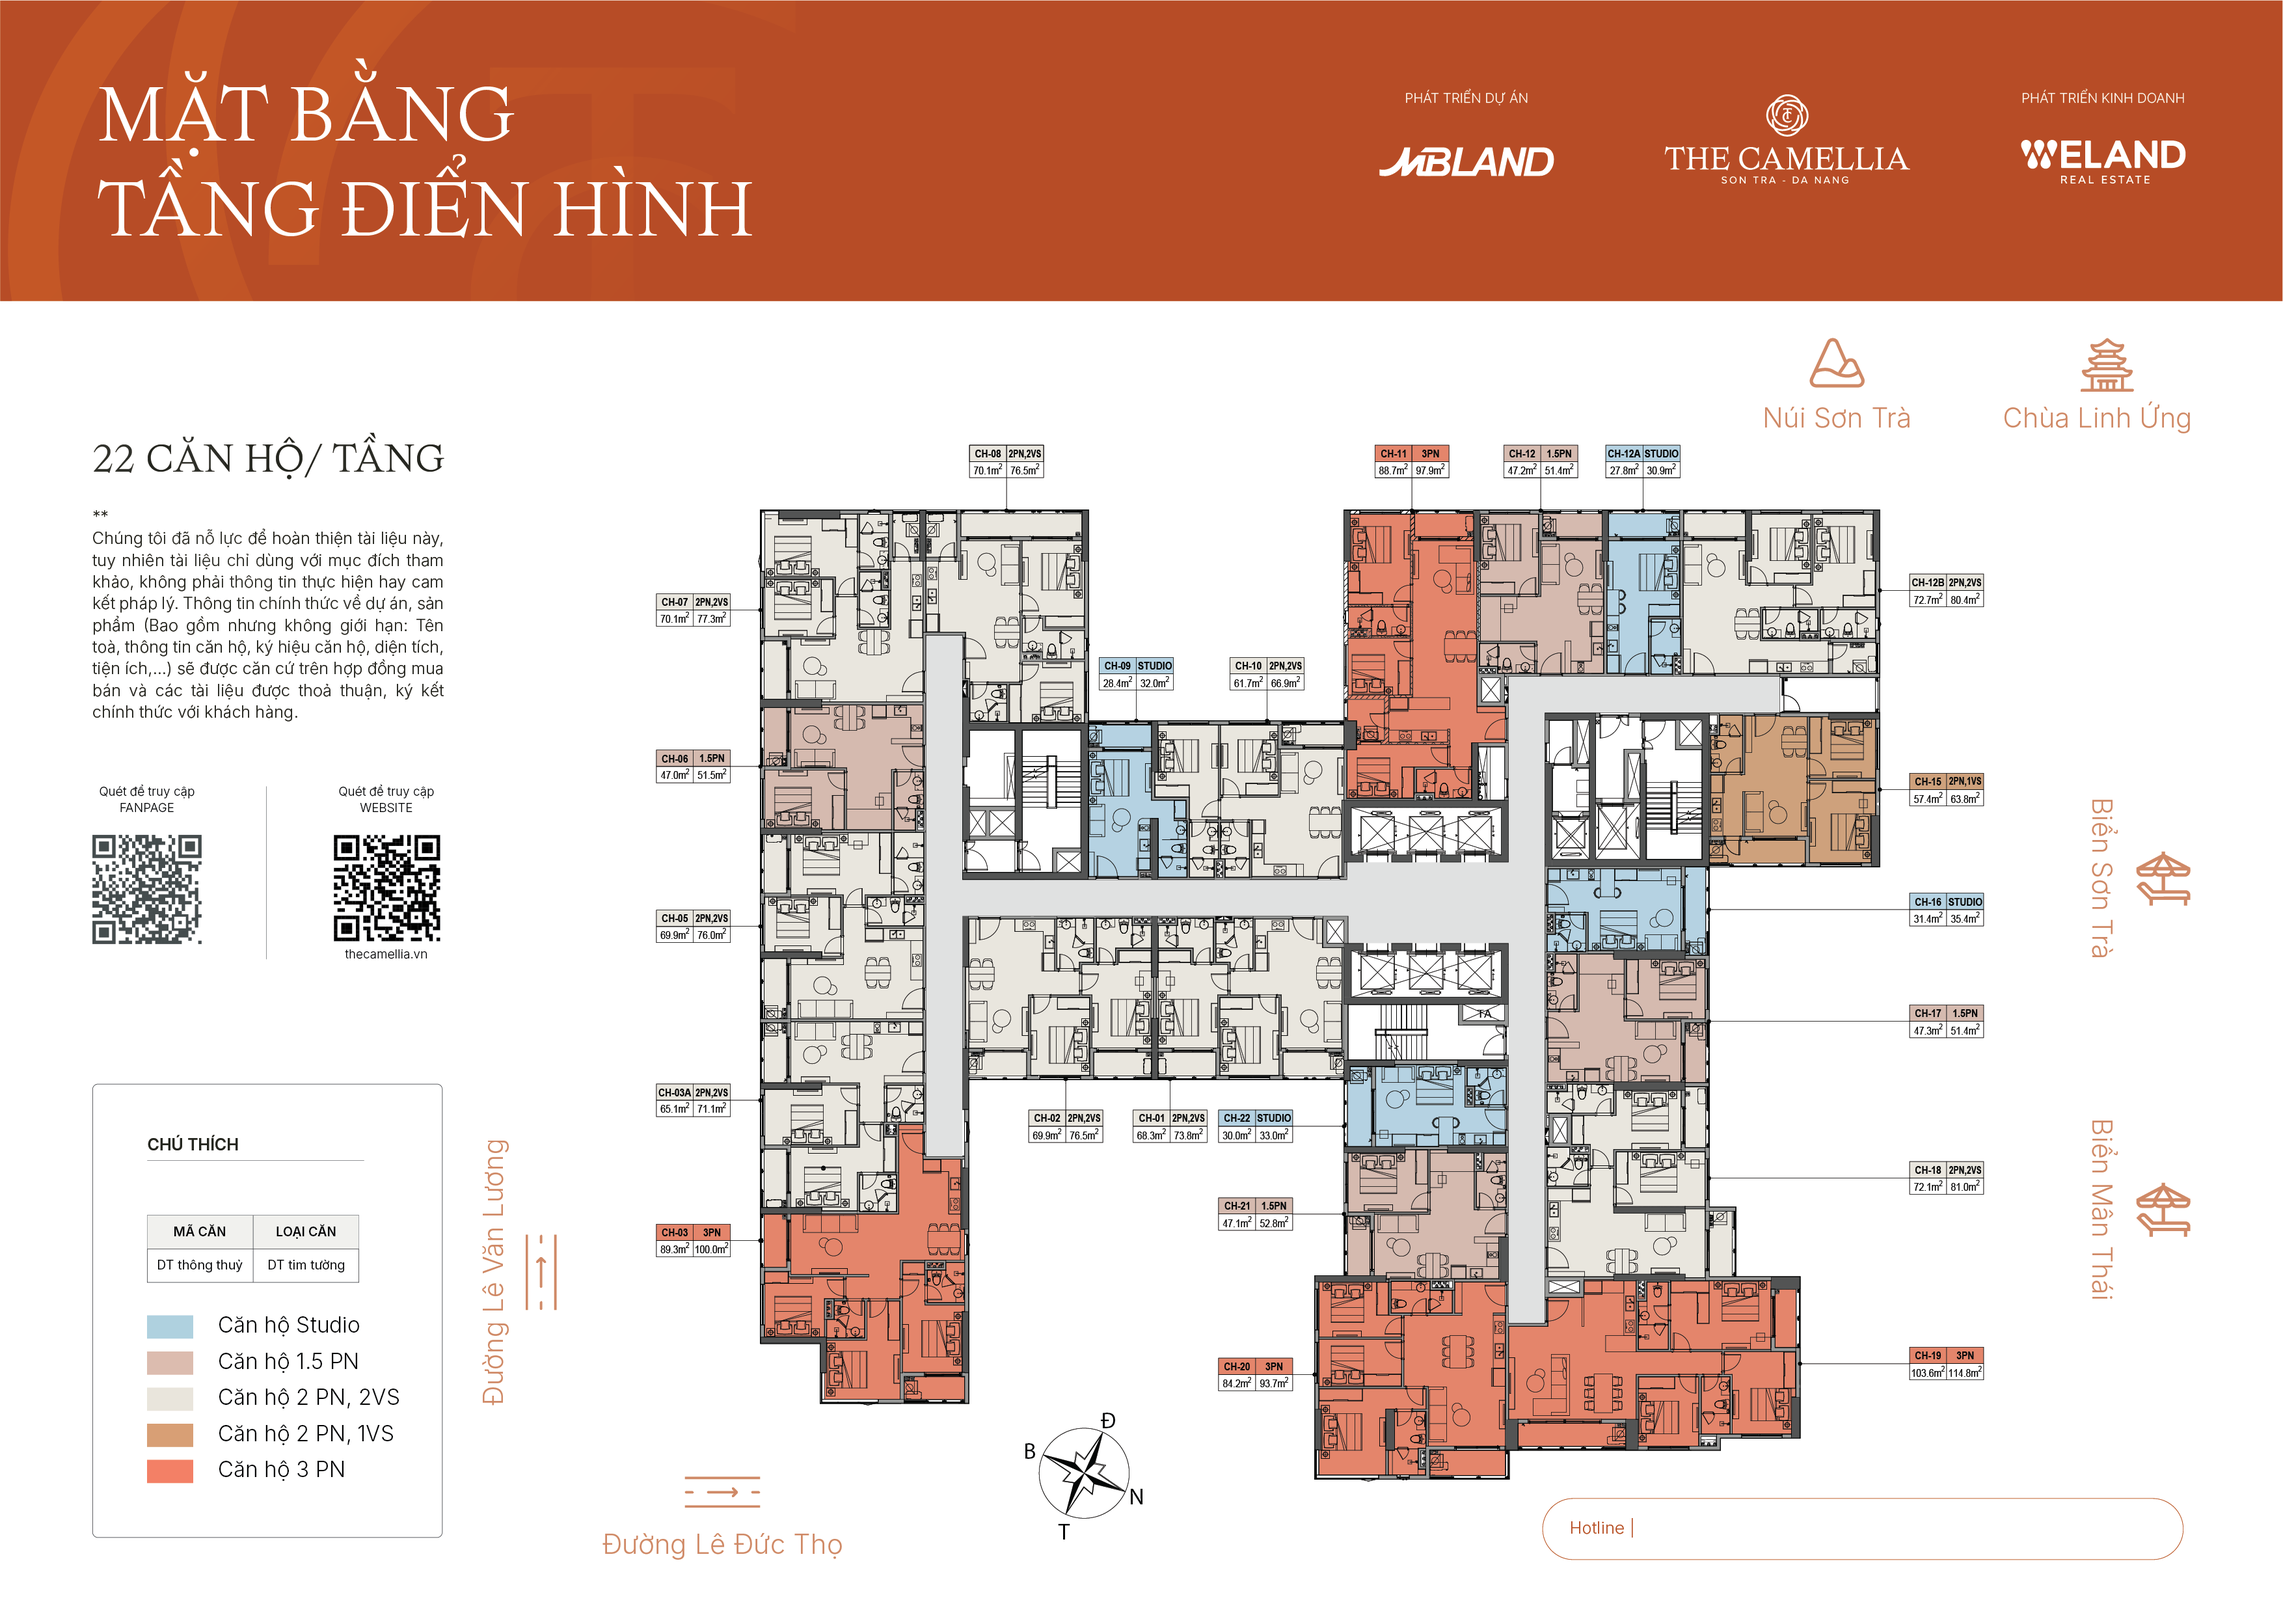
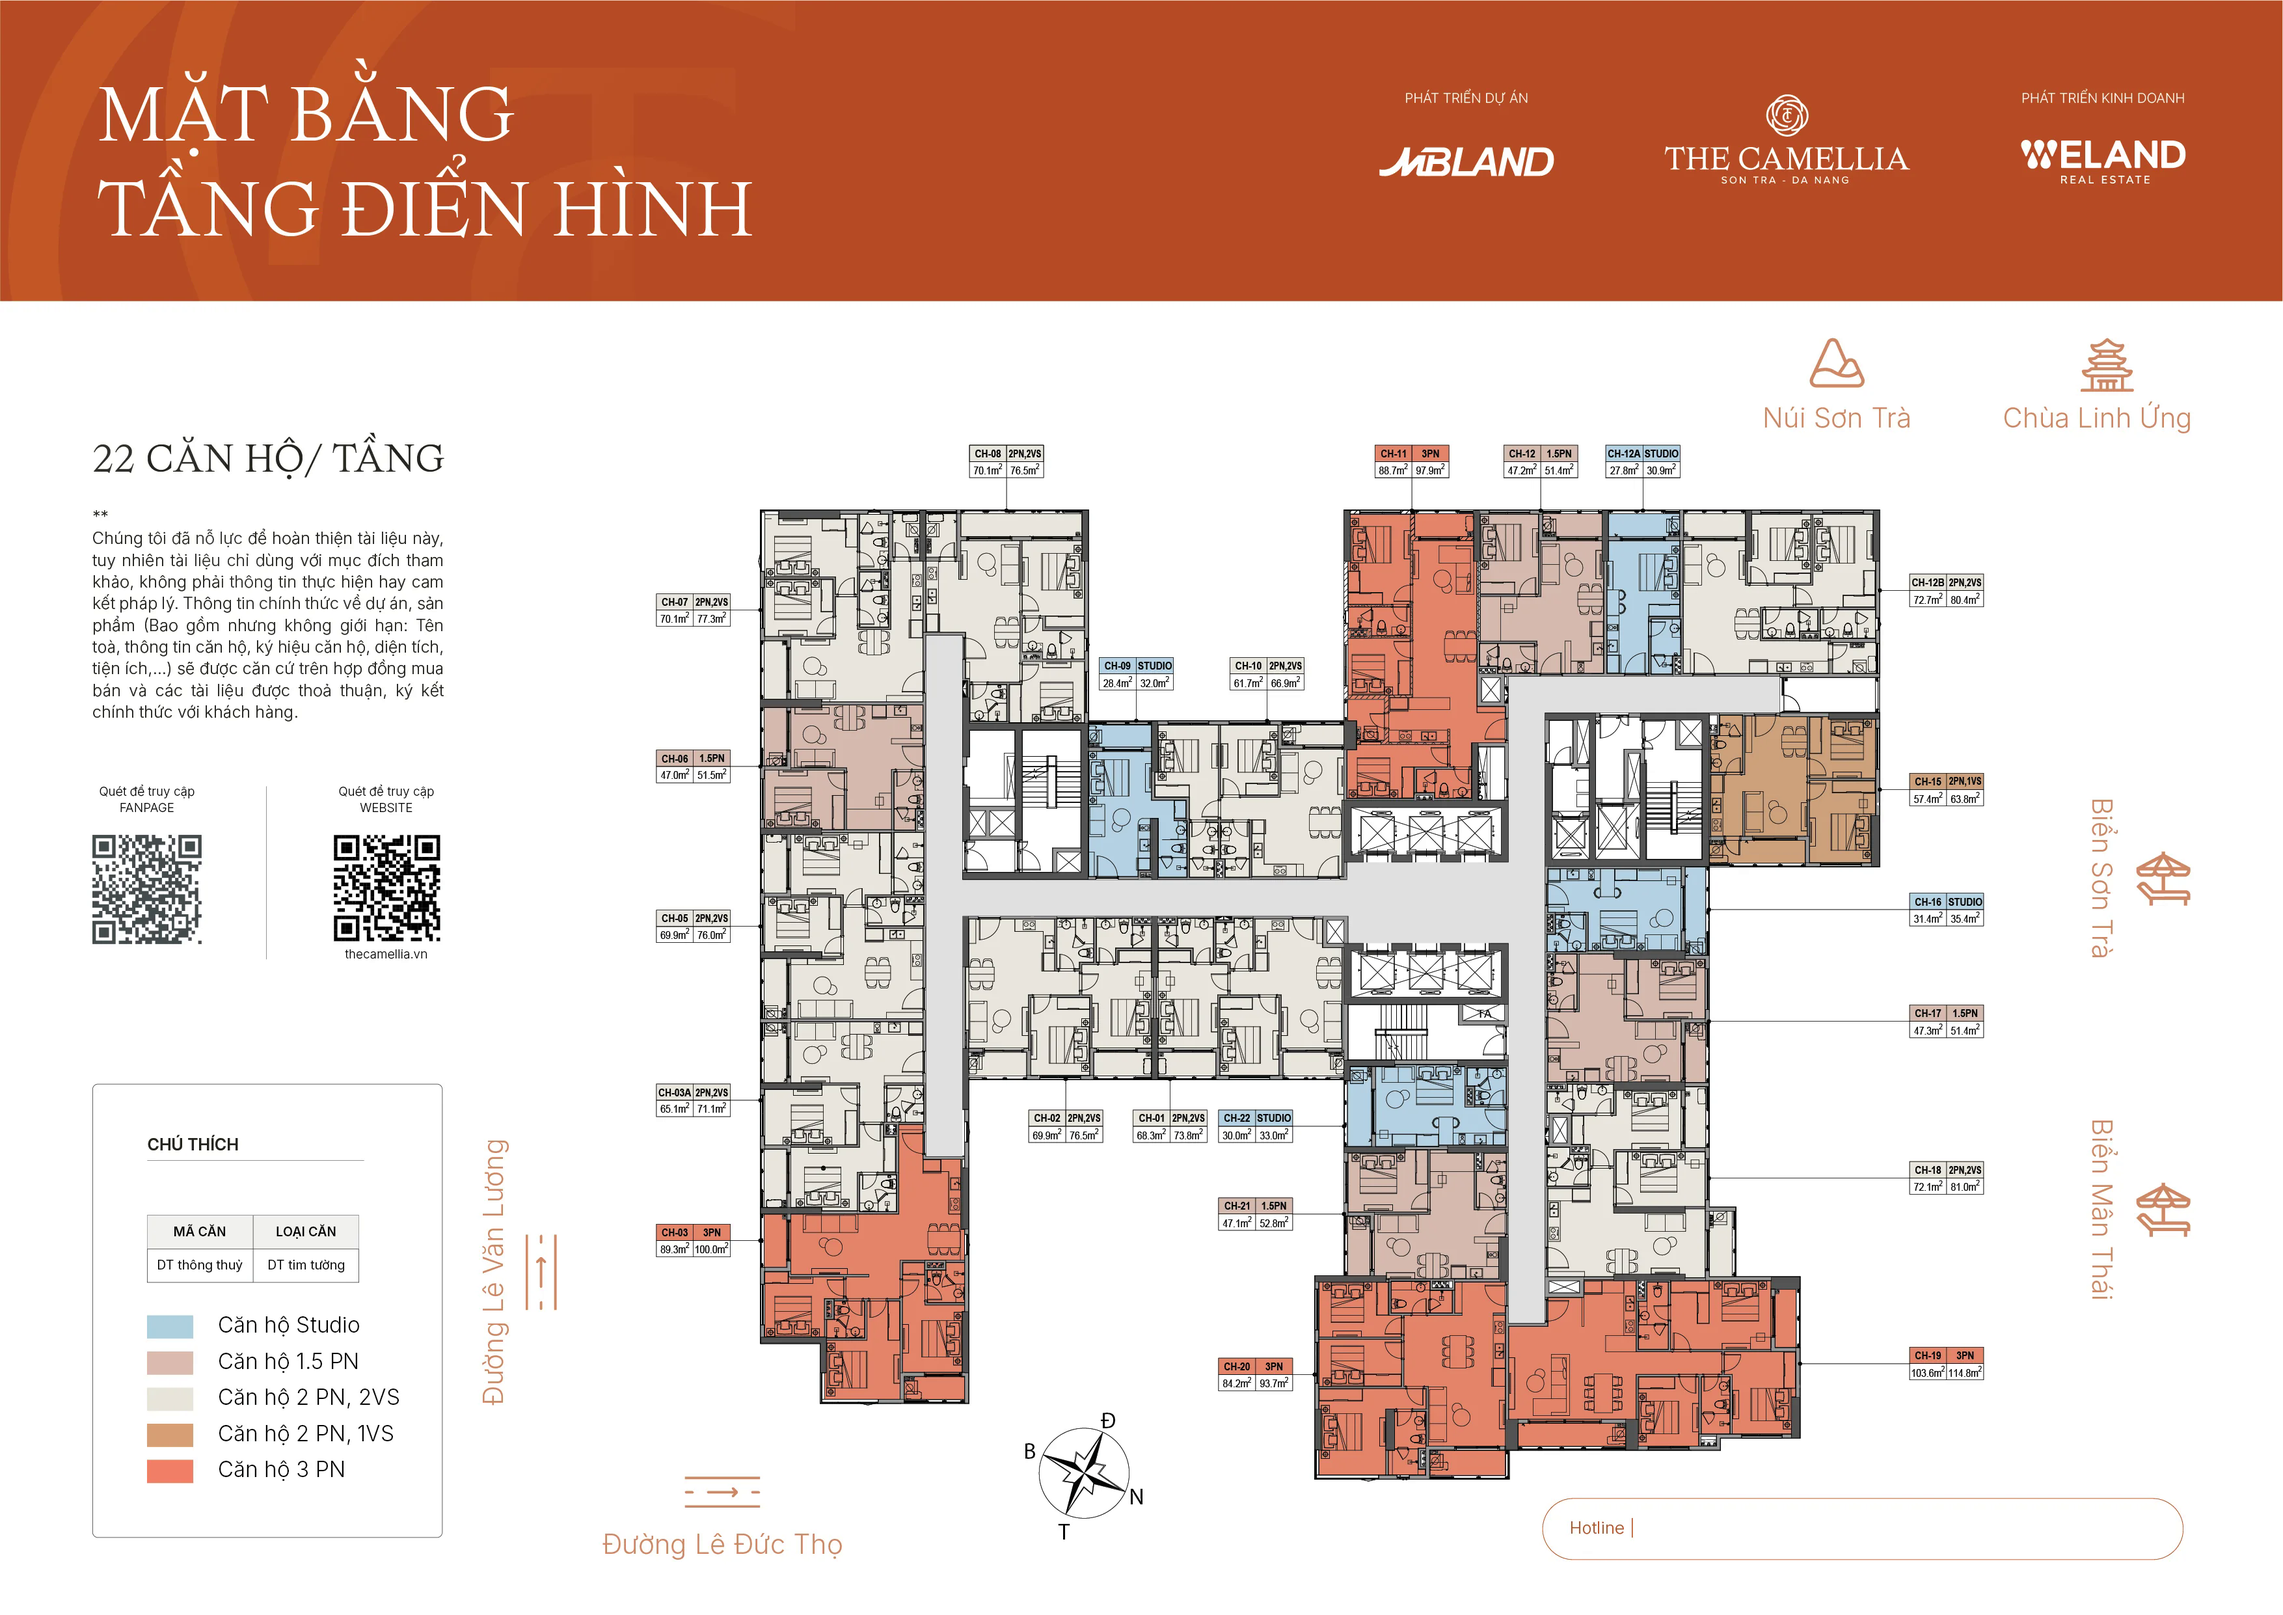
fix(lightbox): native-res zoom for typical floor PNG
Root cause: Lightbox fitted the img via max-w/max-h then scaled that
small layout box with transform (+ will-change), so zoom amplified a
downscaled GPU layer (blocky/blurry) even when src was full PNG.

- Replace floor-typical.png with user source (3509x2482, byte-match)
- Layout img at naturalWidth/Height; fit+zoom via transform scale
- maxScale still reaches 1:1 native and past (x2)
- Cache-bust lightbox PNG URL (?v=20260930b); in-page keeps WebP

diff --git a/src/components/media/lightbox.tsx b/src/components/media/lightbox.tsx
@@ -2,6 +2,7 @@ import { ChevronLeft, ChevronRight, Minus, Plus, X } from "lucide-react";
 import {
   useCallback,
   useEffect,
+  useMemo,
   useRef,
   useState,
   type MouseEvent as ReactMouseEvent,
@@ -22,7 +23,7 @@ type Point = { x: number; y: number };
 
 const ZOOM_STEP = 1.25;
 const WHEEL_ZOOM_SPEED = 0.0025;
-/** Allow zoom past native 1:1 (scale where CSS px ≈ image px). */
+/** Allow zoom past native 1:1 (user-scale where CSS px ≈ image px). */
 const PAST_NATIVE = 2;
 
 function clamp(n: number, min: number, max: number) {
@@ -37,18 +38,31 @@ function mid(a: Point, b: Point): Point {
   return { x: (a.x + b.x) / 2, y: (a.y + b.y) / 2 };
 }
 
+function contentSize(el: HTMLElement) {
+  const cs = getComputedStyle(el);
+  const pl = parseFloat(cs.paddingLeft) || 0;
+  const pr = parseFloat(cs.paddingRight) || 0;
+  const pt = parseFloat(cs.paddingTop) || 0;
+  const pb = parseFloat(cs.paddingBottom) || 0;
+  return {
+    w: Math.max(0, el.clientWidth - pl - pr),
+    h: Math.max(0, el.clientHeight - pt - pb),
+  };
+}
+
 export function Lightbox({ images, index, onClose, onIndex }: Props) {
   const [mounted, setMounted] = useState(false);
   const current = images[index];
 
   const viewportRef = useRef<HTMLDivElement>(null);
 
-  /** 1 = fitted to viewport; higher = zoomed in. */
+  /** 1 = fitted to viewport; higher = zoomed in (relative to fit). */
   const [scale, setScale] = useState(1);
   const [tx, setTx] = useState(0);
   const [ty, setTy] = useState(0);
   const [maxScale, setMaxScale] = useState(4);
   const [natural, setNatural] = useState({ w: 0, h: 0 });
+  const [vpSize, setVpSize] = useState({ w: 0, h: 0 });
 
   const view = useRef({ scale: 1, tx: 0, ty: 0, maxScale: 4 });
   const pointers = useRef(new Map<number, Point>());
@@ -67,6 +81,17 @@ export function Lightbox({ images, index, onClose, onIndex }: Props) {
     | null
   >(null);
   const didDragRef = useRef(false);
+
+  /**
+   * Fit factor: scale the full-res img down to the content box.
+   * Zoom applies as fitScale * userScale so the compositor keeps native pixels.
+   */
+  const fitScale = useMemo(() => {
+    if (!natural.w || !natural.h || !vpSize.w || !vpSize.h) return 1;
+    return Math.min(vpSize.w / natural.w, vpSize.h / natural.h);
+  }, [natural, vpSize]);
+
+  const displayScale = fitScale * scale;
 
   const commit = useCallback((next: { scale: number; tx: number; ty: number }) => {
     view.current.scale = next.scale;
@@ -87,11 +112,12 @@ export function Lightbox({ images, index, onClose, onIndex }: Props) {
     const vp = viewportRef.current;
     const { w: nw, h: nh } = natural;
     if (!vp || !nw || !nh) return;
-    const vw = vp.clientWidth;
-    const vh = vp.clientHeight;
+    const { w: vw, h: vh } = contentSize(vp);
     if (!vw || !vh) return;
+    setVpSize({ w: vw, h: vh });
     const fit = Math.min(vw / nw, vh / nh);
     const nativeAtFit = fit > 0 ? 1 / fit : 1;
+    // Cap allows true 1:1 (nativeAtFit) and past it.
     const nextMax = Math.max(4, nativeAtFit * PAST_NATIVE);
     view.current.maxScale = nextMax;
     setMaxScale(nextMax);
@@ -134,6 +160,7 @@ export function Lightbox({ images, index, onClose, onIndex }: Props) {
   }, []);
 
   useEffect(() => {
+    setNatural({ w: 0, h: 0 });
     resetView();
   }, [index, current?.src, resetView]);
 
@@ -218,8 +245,6 @@ export function Lightbox({ images, index, onClose, onIndex }: Props) {
       const d = dist(a, b) || 1;
       const m = mid(a, b);
       const nextScale = clamp(g.scale * (d / g.dist), 1, view.current.maxScale);
-      // Focal = pinch midpoint in viewport-local coords at gesture start frame,
-      // then also follow mid movement for pan-while-pinch.
       const fx0 = g.mid.x - g.vpLeft;
       const fy0 = g.mid.y - g.vpTop;
       const ratio = nextScale / g.scale;
@@ -274,6 +299,12 @@ export function Lightbox({ images, index, onClose, onIndex }: Props) {
   if (!mounted || !current) return null;
 
   const zoomPct = Math.round(scale * 100);
+  const hasNatural = natural.w > 0 && natural.h > 0;
+  const layoutReady = hasNatural && vpSize.w > 0 && vpSize.h > 0;
+  // User-scale that shows ~1 CSS px per image px.
+  const nativeUserScale = fitScale > 0 ? 1 / fitScale : 1;
+  // Until viewport is measured, keep CSS object-fit; then switch to native + transform.
+  const effectiveDisplayScale = layoutReady ? displayScale : 1;
 
   return createPortal(
     <div
@@ -363,16 +394,18 @@ export function Lightbox({ images, index, onClose, onIndex }: Props) {
           src={current.src}
           alt={current.alt}
           draggable={false}
+          width={layoutReady ? natural.w : undefined}
+          height={layoutReady ? natural.h : undefined}
           onClick={(e) => e.stopPropagation()}
           onDoubleClick={(e) => {
             e.stopPropagation();
             if (view.current.scale > 1.05) {
               applyZoom(1);
             } else {
-              // Jump toward native 1:1 (or 2× fit if already near-native).
+              // Jump to native 1:1 (or 2× fit if already near-native).
               const nativeTarget = Math.min(
                 view.current.maxScale,
-                Math.max(2, view.current.maxScale / PAST_NATIVE),
+                Math.max(2, nativeUserScale),
               );
               applyZoom(nativeTarget, { x: e.clientX, y: e.clientY });
             }
@@ -381,9 +414,15 @@ export function Lightbox({ images, index, onClose, onIndex }: Props) {
             const el = e.currentTarget;
             setNatural({ w: el.naturalWidth, h: el.naturalHeight });
           }}
-          className="max-h-full max-w-full select-none rounded-md object-contain will-change-transform"
+          className="select-none rounded-md object-contain"
           style={{
-            transform: `translate3d(${tx}px, ${ty}px, 0) scale(${scale})`,
+            // Full natural layout box — avoid max-w/max-h shrink that rasterizes a
+            // small GPU layer; fit + zoom via transform keeps native pixels sharp.
+            width: layoutReady ? natural.w : undefined,
+            height: layoutReady ? natural.h : undefined,
+            maxWidth: layoutReady ? "none" : "100%",
+            maxHeight: layoutReady ? "none" : "100%",
+            transform: `translate3d(${tx}px, ${ty}px, 0) scale(${effectiveDisplayScale})`,
             transformOrigin: "center center",
           }}
         />

diff --git a/src/routes/can-ho.tsx b/src/routes/can-ho.tsx
@@ -32,7 +32,7 @@ const TYPICAL_FLOOR = {
   /** In-page SmartImg — lighter WebP. */
   src: "/images/floor-typical.webp",
   /** Lightbox — lossless PNG original (cache-bust via distinct filename). */
-  lightboxSrc: "/images/floor-typical.png",
+  lightboxSrc: "/images/floor-typical.png?v=20260930b",
   alt: "Mặt bằng tầng điển hình The Camellia",
 } as const;
 
